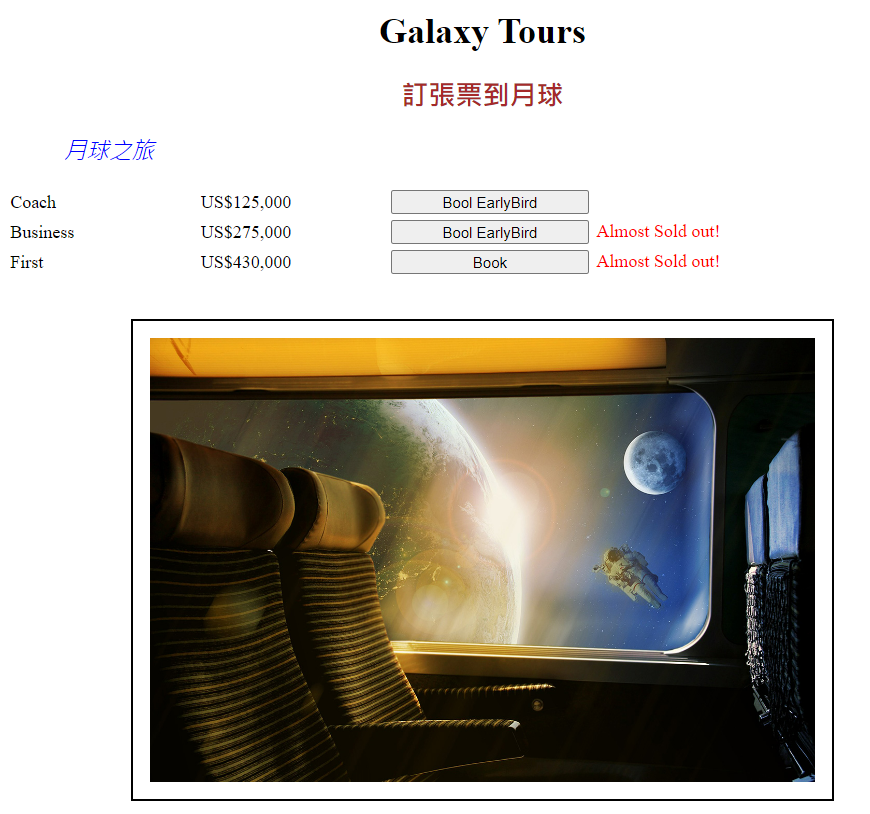
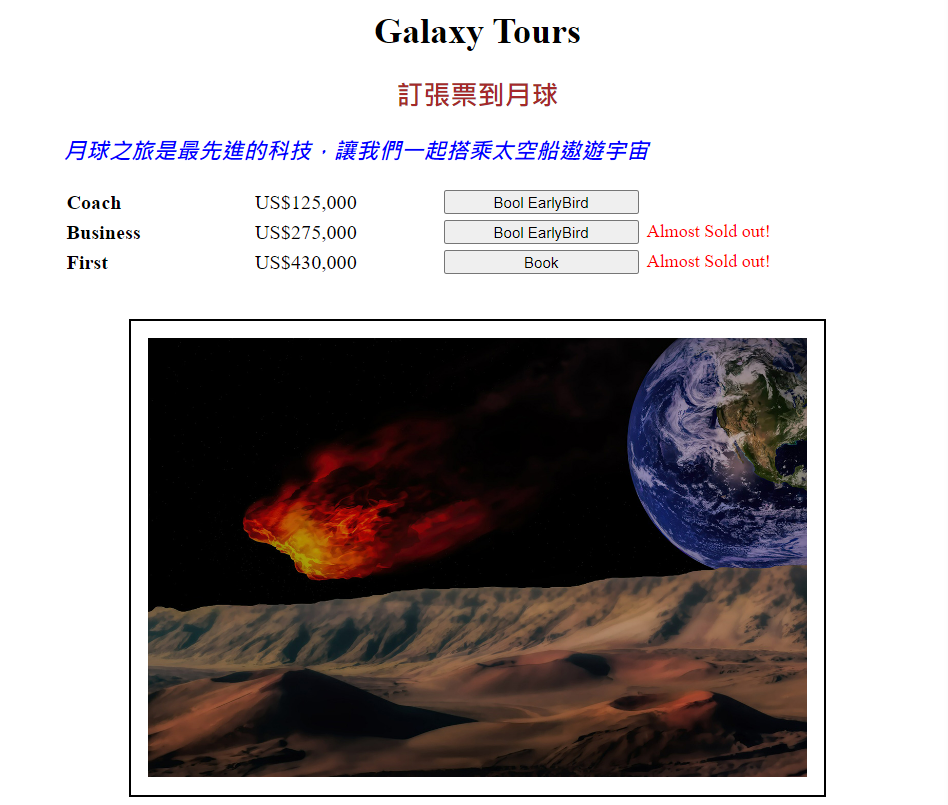
Second version

diff --git a/Summary/index.html b/Summary/index.html
@@ -1,0 +1,33 @@
+<!DOCTYPE html>
+<html>
+    <head>
+        <meta charset="utf-8">
+        <meta http-equiv="X-UA-Compatible" content="IE=edge">
+        <title>Summary</title>
+        <meta name="description" content="">
+        <meta name="viewport" content="width=device-width, initial-scale=1">
+        <link rel="stylesheet" href="style.css">
+    </head>
+    <body>
+        <div><strong>
+            <p id="title">版本紀錄</p>
+            <p id="normal">First Commit (Sun Jun 12 15:15 2022)：<br>
+                上傳最初版本
+            </p>
+            <p id="normal">Second Version (Sun Jun 12 23:10 2022)：<br>
+                1. 修改Youtube心情點唱機的曲目，在檢查時發現有歌被鎖了，因此重新修改曲目，也順便更新歌單。<br>
+                2. 新增一個網頁Summary，記載版本間的差異和更新的內容，以及學習心得。<br>
+                3. 微調部分介面外觀 (詳見github)
+            </p>
+        </strong></div>
+        <div><strong>
+            <p id="title">學期心得</p>
+            <p id="normal" style="max-width:65%">
+                這學期我並不後悔選了這堂選修課，老師教課很清楚也不會沉悶，讓我知道了很多之前不知道的東西。
+                像是貫穿了整個學期的Java Script是我一直有興趣但在這堂課第一次接觸的，下半學期的課程D3跟Vue也很新奇，
+                沒想到有人能夠以js為基礎寫出那麼龐大的功能。雖然我並沒有自信說脫離了講義的內容我能夠自己獨立寫出一份網頁，
+                但我上課時都有跟著實作，相信在這一個學期的學習下，未來當我要使用到這些東西時，一定能因為有基礎而比較輕鬆。
+            </p>
+        </strong></div>
+    </body>
+</html>

diff --git a/20220518 - Galaxy/index.html b/20220518 - Galaxy/index.html
@@ -12,11 +12,11 @@
         <h1>Galaxy Tours</h1>
         <div id="app">
             <h2 :class="h2ClassController">{{productName}}</h2>
-            <p :style="pStyleController">{{productDescription}}</p>
-            <table v-for="(productClass, index) in productClasses" :key="index" width="100%">
+            <p :style="pStyleController"><strong>{{productDescription}}</strong></p>
+            <table v-for="(productClass, index) in productClasses" :key="index" width="100%" style="margin-left:50px;">
                 <tr>
-                    <td width="20%">{{productClass.name}}</td>
-                    <td width="20%">US${{productClass.price.toLocaleString('en-US')}}</td>
+                    <td :style="tdStyleController"><strong>{{productClass.name}}</strong></td>
+                    <td :style="tdStyleController">US${{productClass.price.toLocaleString('en-US')}}</td>
                     <td>
                         <button style="width:35%" v-if="productClass.earlyBird">Bool EarlyBird</button>
                         <button style="width:35%" v-else>Book</button>

diff --git a/index.html b/index.html
@@ -28,7 +28,7 @@
 								<header>
 									<h3>1101415</h3>
 									<h1>張榆莉</h1>
-									<p>網站程式設計實務 期中查核</p>
+									<p>網站程式設計實務 期末專題</p>
 								</header>
 								<a href="#work" class="jumplink pic">
 									<span class="arrow icon solid fa-chevron-right"><span>See my work</span></span>
@@ -72,6 +72,9 @@
 										</div>
 										<div class="col-4 col-6-medium col-12-small">
 											<a target="_blank" href="20220525/index.html" class="image fit"><img src="images/Salary.png" alt=""></a>
+										</div>
+										<div class="col-4 col-6-medium col-12-small">
+											<a target="_blank" href="Summary/index.html" class="image fit"><img src="images/Other.png" alt=""></a>
 										</div>
 										<!-- <div class="col-4 col-6-medium col-12-small">
 											<a href="#" class="image fit"><img src="images/pic06.jpg" alt=""></a>

diff --git a/20220518 - Galaxy/main.js b/20220518 - Galaxy/main.js
@@ -1,6 +1,6 @@
 let pageData={
     productName:"訂張票到月球",
-    productDescription:"月球之旅",
+    productDescription:"月球之旅是最先進的科技，讓我們一起搭乘太空船遨遊宇宙",
     imageSrc:[
         "images/asteroid.jpg",
         "images/fantasy.jpg",
@@ -15,12 +15,16 @@ let pageData={
         color:'blue',
         'margin-left':'50px',
         'font-size':'20px',
-        'font-style':'italic'
+        'font-style':'italic',
     },
     imageStyleController:{
         margin:'auto',
         display:'block',
         wigth:'50%'
+    },
+    tdStyleController:{
+        width:'20%',
+        'font-size':'18px'
     },
     imageAlt:"Photo from space",
     productClasses:[

diff --git a/Summary/style.css b/Summary/style.css
@@ -1,0 +1,22 @@
+body{
+    font-family: Microsoft JhengHei;
+    /* 設定滿版背景圖片 */
+    background-image: url(bg-sum.png);
+    background-repeat: no-repeat;
+    background-attachment: fixed;
+    background-position: center;
+    background-size: cover;
+}
+div{
+    margin-left:30px;
+}
+#title{
+    font-size:28px;
+    color: #0000A3;
+    margin-bottom: 10px;
+}
+#normal{
+    font-size: 20px;
+    padding-left:20px;
+    margin-top: 10px;
+}

diff --git a/20220323/playList.js b/20220323/playList.js
@@ -1,8 +1,8 @@
 //YouTube Video ID
 let playList = [
-    "OvioeS1ZZ7o", "3GWscde8rM8", "Jh4QFaPmdss"
+    "gRnuFC4Ualw", "bagFQCTHXy8", "VCHk9zoFIr8"
 ];
 //播放起訖秒數
 let playTime = [
-    [132,143],[158,172],[66,77]
+    [57,75],[76,91],[40,63]
 ]
